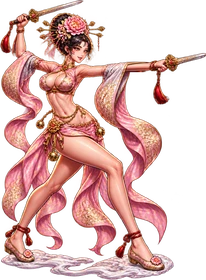
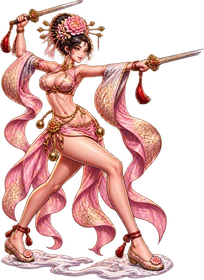
그믐: 월향 게임 그림 팔은 되돌리고 앞 칼날만 늘림(직접 편집)
Claude-Session: https://claude.ai/code/session_01X3WCR5nTXLkTaQuYbPMPiQ

diff --git a/game-design/art/새캐릭터2/README.md b/game-design/art/새캐릭터2/README.md
@@ -45,4 +45,4 @@
 - 그 뒤 **크레딧 없이 직접 고침**(픽셀 편집): 위 칼 칼날을 약 2.5머리로 줄이고 칼끝을 옮겨 붙임, 앞팔은 위팔 피부 구간(가로 385~405)을 늘리고 앞쪽(팔찌·손·칼·칼바람)을 통째로 오른쪽 65픽셀 옮김(캔버스 688→753 넓힘) → 앞팔 약 2.1머리. 손·칼 모양은 원래 픽셀 그대로.
 - 앞 칼은 화면 오른쪽 끝에서 잘림(사용자 허락: 넘어간 부분은 안 그려도 됨).
 - (사용자 조정) 앞팔 +55픽셀(약 2.05머리), 머리 위 칼 약 2.5머리, **앞(오른쪽) 칼날을 약 2.5머리로 늘려 끝까지 그림**(캔버스 828×1003). 머리 위 칼끝이 살짝 틀어진 것(칼날 중심선을 잘못 잡음)을 실제 중심선으로 다시 맞춰 고침. 크레딧 0.
-- 월향 게임 그림 p38: 크레딧 없이 직접 고침. 소매 끝~팔찌 사이 아래팔 피부를 가로로 늘리고 팔찌·손·칼·술을 오른쪽 65픽셀 옮김(앞팔 약 1.55 → 약 2.1머리). 손 크기 그대로.
+- 월향 게임 그림 p38: (사용자 결정) 팔은 고치지 않고 f6a803fb 그대로. **앞(오른쪽) 칼날만 크레딧 없이 늘림**: 약 0.9 → 약 1.4머리(110 → 175픽셀, 머리 위 칼과 같은 길이), 칼끝은 머리 위 칼처럼 비스듬히 뾰족하게.
